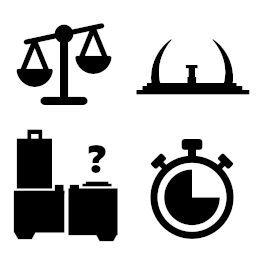
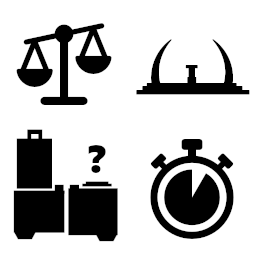
Fix for component removed in DLC update

Changed region(s): [[0.75, 0.6562, 0.875, 0.7812]]

diff --git a/Plugin.cs b/Plugin.cs
@@ -26,7 +26,7 @@ namespace RiskOfResources;
 [BepInIncompatibility("Felda.ActuallyFaster")]
 class BalancedFasterInteractables : BaseUnityPlugin
 {
-	public const string version = "1.3.1", identifier = "com.riskofresources.fast.interactable";
+	public const string version = "1.3.2", identifier = "com.riskofresources.fast.interactable";
 
 	static ConfigEntry<bool> teleporter, penalty;
 	static ConfigEntry<float> speed;
@@ -82,13 +82,17 @@ class BalancedFasterInteractables : BaseUnityPlugin
 	static void PrintFaster(Duplicating __instance)
 	{
 		bool idle = printer.Value is false || Idle;
-		__instance.GetComponent<DelayedEvent>().enabled = idle;
+		if ( __instance.outer.TryGetComponent(out DelayedEvent delayed) )
+			delayed.enabled = idle;
 
 		if ( idle ) return;
 		float time = speed.Value / 100;
 
-		__instance.GetComponent<PurchaseInteraction>().SetUnavailableTemporarily(
-				time: 4 * ( 1 - time ));
+		if ( delayed )
+		{
+			__instance.GetComponent<PurchaseInteraction>().SetUnavailableTemporarily(
+					time: 4 * ( 1 - time ));
+		}
 
 		time *= Duplicating.initialDelayDuration +
 				Duplicating.timeBetweenStartAndDropDroplet;

diff --git a/README.md b/README.md
@@ -25,6 +25,9 @@ Please report any issues discovered [here](https://github.com/RiskOfResources/Ba
 
 ## Version History
 
+#### `1.3.2`
+- Handle minor change made in *Alloyed Collective* patch.
+
 #### `1.3.1`
 - Update logic for <ins>Halcyon Shrine</ins> director.
 
